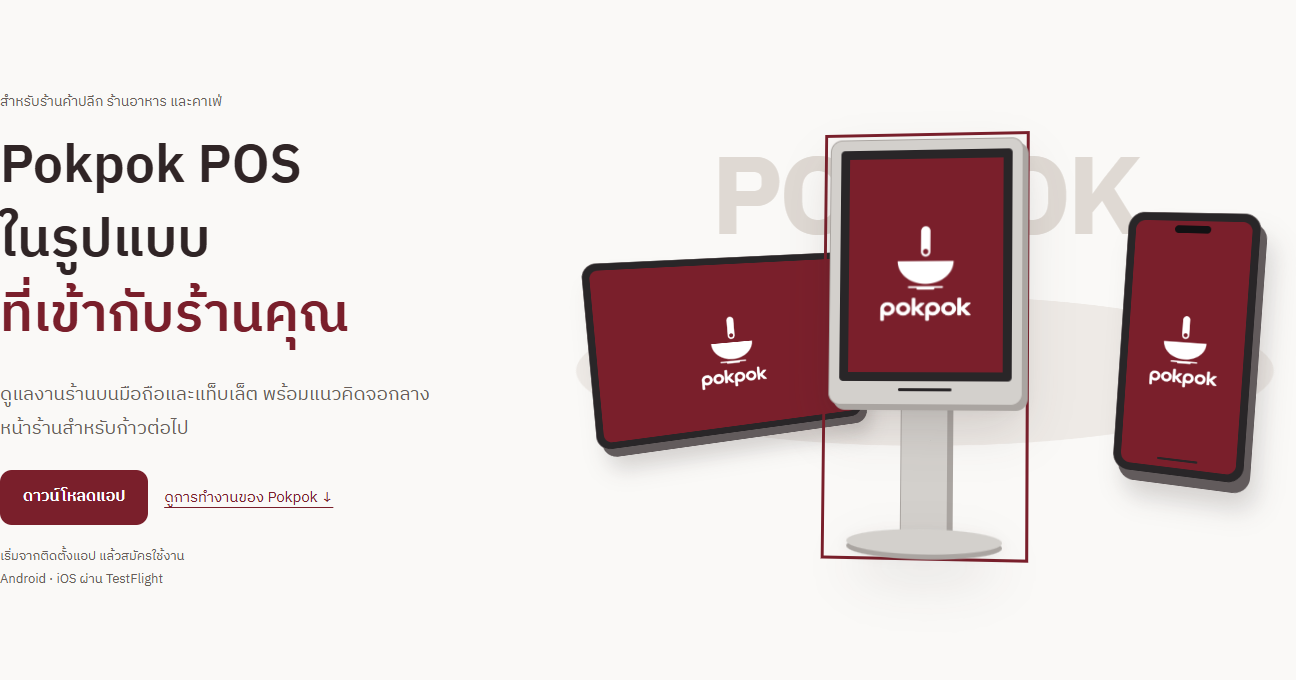
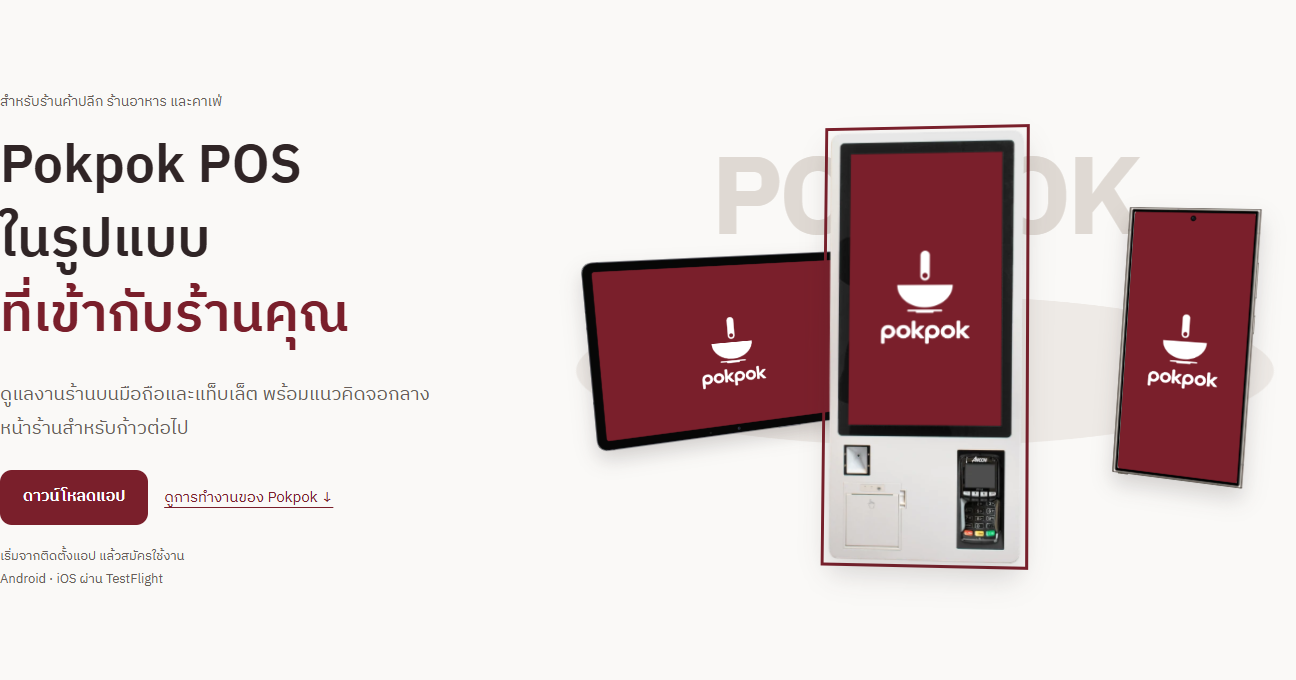
Use licensed realistic device images in homepage showcase

Changed region(s): [[0.4321, 0.1853, 0.8025, 0.8647], [0.8333, 0.2779, 0.9877, 0.7412], [0.5556, 0.525, 0.5864, 0.5868]]

diff --git a/public/index.html b/public/index.html
@@ -52,9 +52,9 @@
   <link rel="stylesheet" href="/brand/wordmark.css?v=20261118-motion">
 <link rel="stylesheet" href="/site-pages.css?v=20261112-direction"><script src="/js/site.js?v=20261113-pricing" defer></script><noscript><style>.mobile-nav{display:block;position:static;max-height:none}.hamburger{display:none}.guide-tools{display:none}</style></noscript><link rel="stylesheet" href="/pricing.css?v=20261113">
 <link rel="stylesheet" href="/marketing-background.css?v=20261113">
-<link rel="stylesheet" href="/home-tokens.css?v=20261122-swipe">
-<link rel="stylesheet" href="/home-story.css?v=20261122-swipe">
-<script src="/js/home-story.js?v=20261122-swipe" defer></script>
+<link rel="stylesheet" href="/home-tokens.css?v=20261122-devices">
+<link rel="stylesheet" href="/home-story.css?v=20261122-devices">
+<script src="/js/home-story.js?v=20261122-devices" defer></script>
 </head>
 <body class="motion-home">
 <a class="skip-link" href="#main">ข้ามไปเนื้อหา</a>
@@ -92,14 +92,13 @@
     <div class="device-stage hero-device" role="group" aria-label="รูปแบบอุปกรณ์ แสดงโลโก้ตอนเปิดแอป Pokpok แตะอุปกรณ์หรือปัดซ้ายขวาเพื่อสลับ ใช้ปุ่มลูกศรบนคีย์บอร์ดได้">
       <span class="device-stage-word" aria-hidden="true">POKPOK</span>
       <button type="button" class="device-model device-phone" data-model="phone" data-position="left" aria-label="มือถือ" aria-pressed="false" disabled>
-        <span class="device-shell"><span class="device-glass launch-screen"><span class="launch-logo" aria-hidden="true"><span class="launch-mark"><img src="/brand/launch/white-pestle.png" alt="" width="1024" height="1024" draggable="false"><img src="/brand/launch/white-bowl.png" alt="" width="1024" height="1024" draggable="false"></span><img class="launch-wordmark" src="/brand/launch/wordmark.png" alt="" width="1011" height="274" draggable="false"></span></span></span>
+        <span class="device-shell"><span class="device-glass launch-screen"><span class="launch-logo" aria-hidden="true"><span class="launch-mark"><img src="/brand/launch/white-pestle.png" alt="" width="1024" height="1024" draggable="false"><img src="/brand/launch/white-bowl.png" alt="" width="1024" height="1024" draggable="false"></span><img class="launch-wordmark" src="/brand/launch/wordmark.png" alt="" width="1011" height="274" draggable="false"></span></span><img class="device-hardware" src="/brand/devices/galaxy-s24-ultra.webp" alt="" width="391" height="800" draggable="false"></span>
       </button>
       <button type="button" class="device-model device-tablet" data-model="tablet" data-position="center" aria-label="แท็บเล็ต" aria-pressed="true" disabled>
-        <span class="device-shell"><span class="device-glass launch-screen"><span class="launch-logo" aria-hidden="true"><span class="launch-mark"><img src="/brand/launch/white-pestle.png" alt="" width="1024" height="1024" draggable="false"><img src="/brand/launch/white-bowl.png" alt="" width="1024" height="1024" draggable="false"></span><img class="launch-wordmark" src="/brand/launch/wordmark.png" alt="" width="1011" height="274" draggable="false"></span></span></span>
+        <span class="device-shell"><span class="device-glass launch-screen"><span class="launch-logo" aria-hidden="true"><span class="launch-mark"><img src="/brand/launch/white-pestle.png" alt="" width="1024" height="1024" draggable="false"><img src="/brand/launch/white-bowl.png" alt="" width="1024" height="1024" draggable="false"></span><img class="launch-wordmark" src="/brand/launch/wordmark.png" alt="" width="1011" height="274" draggable="false"></span></span><img class="device-hardware" src="/brand/devices/galaxy-tab-s7.webp" alt="" width="522" height="800" draggable="false"></span>
       </button>
       <button type="button" class="device-model device-kiosk" data-model="kiosk" data-position="right" aria-label="จอกลางหน้าร้าน แนวคิดที่ยังไม่เปิดให้ใช้งาน" aria-pressed="false" disabled>
-        <span class="kiosk-pedestal" aria-hidden="true"></span><span class="kiosk-foot" aria-hidden="true"></span>
-        <span class="device-shell"><span class="device-glass launch-screen"><span class="launch-logo" aria-hidden="true"><span class="launch-mark"><img src="/brand/launch/white-pestle.png" alt="" width="1024" height="1024" draggable="false"><img src="/brand/launch/white-bowl.png" alt="" width="1024" height="1024" draggable="false"></span><img class="launch-wordmark" src="/brand/launch/wordmark.png" alt="" width="1011" height="274" draggable="false"></span></span><span class="kiosk-slot" aria-hidden="true"></span></span>
+        <span class="device-shell"><span class="device-glass launch-screen"><span class="launch-logo" aria-hidden="true"><span class="launch-mark"><img src="/brand/launch/white-pestle.png" alt="" width="1024" height="1024" draggable="false"><img src="/brand/launch/white-bowl.png" alt="" width="1024" height="1024" draggable="false"></span><img class="launch-wordmark" src="/brand/launch/wordmark.png" alt="" width="1011" height="274" draggable="false"></span></span><img class="device-hardware" src="/brand/devices/self-service-kiosk.webp" alt="" width="365" height="800" draggable="false"></span>
       </button>
     </div>
     <span class="device-sr-status" aria-live="polite" aria-atomic="true">แท็บเล็ต</span>

diff --git a/public/home-story.css b/public/home-story.css
@@ -41,23 +41,21 @@
 .device-stage.is-dragging .device-model { cursor: grabbing; transition: none; }
 .device-model[data-position="left"] { left: 14%; transform: translate(-50%,-50%) scale(.76) rotateY(var(--device-side-angle)) rotateZ(-5deg); z-index: 1; }
 .device-model[data-position="right"] { left: 85%; transform: translate(-50%,-50%) scale(.76) rotateY(calc(var(--device-side-angle) * -1)) rotateZ(4deg); z-index: 1; }
-.device-shell { display: block; position: relative; padding: var(--device-bezel); background: var(--home-device); border: var(--home-border) solid var(--home-device-edge); border-radius: var(--device-radius); box-shadow: var(--device-shadow); }
-.device-glass { display: block; position: relative; overflow: hidden; background: var(--home-ground); border-radius: calc(var(--device-radius) - var(--device-bezel)); }
-.device-glass > img { display: block; width: 100%; height: auto; }
+.device-shell { display: block; position: relative; filter: drop-shadow(var(--device-photo-shadow)); }
+.device-glass { display: block; position: absolute; overflow: hidden; }
+.device-hardware { display: block; position: relative; width: 100%; height: auto; }
 .device-phone { width: 28%; max-width: var(--device-phone-width); }
-.device-phone .device-glass { aspect-ratio: 9 / 19; }
-.device-phone .device-shell::before { content: ''; position: absolute; z-index: 1; width: 28%; height: var(--device-bezel); top: calc(var(--device-bezel) * 1.7); left: 36%; border-radius: var(--home-radius-sm); background: var(--home-camera); }
-.device-phone .device-glass::after { content: ''; position: absolute; width: 35%; height: var(--home-focus); bottom: var(--device-bezel); border-radius: var(--home-radius-sm); background: var(--home-device); }
+.device-phone .device-shell { aspect-ratio: 391 / 800; }
+.device-phone .device-glass { inset: var(--phone-screen-inset); border-radius: var(--phone-screen-radius); }
 .device-tablet { width: 67%; max-width: var(--device-tablet-width); }
 .device-tablet[data-position="left"] { left: 24%; transform: translate(-50%,-50%) scale(.62) rotateY(var(--device-side-angle)) rotateZ(-5deg); }
 .device-tablet[data-position="right"] { left: 76%; transform: translate(-50%,-50%) scale(.62) rotateY(calc(var(--device-side-angle) * -1)) rotateZ(4deg); }
-.device-tablet .device-glass { aspect-ratio: 1480 / 924; }
-.device-kiosk { width: 31%; max-width: var(--device-kiosk-width); aspect-ratio: 1 / 2.12; }
-.device-kiosk .device-shell { position: absolute; inset: 0 0 auto; border-radius: var(--home-radius-screen); padding-bottom: 12%; background: var(--device-metal); border-color: var(--device-metal-edge); box-shadow: var(--device-edge-depth) var(--device-edge-depth) 0 var(--device-metal-edge), var(--home-shadow); }
-.device-kiosk .device-glass { aspect-ratio: 3 / 4; border-radius: var(--home-camera-inset); border: var(--device-bezel) solid var(--home-device); }
-.kiosk-pedestal { position: absolute; top: 60%; bottom: 3%; width: 24%; left: 38%; background: var(--device-metal); border-inline: var(--home-border) solid var(--device-metal-edge); box-shadow: var(--device-edge-depth) 0 var(--device-metal-edge); }
-.kiosk-foot { position: absolute; bottom: 0; left: 10%; width: 80%; height: 6%; border-radius: 50%; background: var(--device-metal); box-shadow: 0 var(--device-edge-depth) 0 var(--device-metal-edge), var(--home-shadow); }
-.kiosk-slot { position: absolute; bottom: 5%; left: 36%; width: 28%; height: var(--home-focus); background: var(--home-device); border-radius: var(--home-radius-sm); }
+.device-tablet .device-shell { aspect-ratio: 800 / 522; }
+.device-tablet .device-hardware { position: absolute; width: 65.25%; height: auto; left: 50%; top: 50%; transform: translate(-50%,-50%) rotate(90deg); }
+.device-tablet .device-glass { inset: var(--tablet-screen-inset); border-radius: var(--tablet-screen-radius); }
+.device-kiosk { width: 31%; max-width: var(--device-kiosk-width); }
+.device-kiosk .device-shell { aspect-ratio: 365 / 800; }
+.device-kiosk .device-glass { inset: var(--kiosk-screen-inset); }
 .launch-screen { display: grid; place-items: center; background: var(--wine); }
 .launch-logo { display: flex; flex-direction: column; align-items: center; width: 68%; max-width: var(--launch-logo-width); }
 .device-tablet .launch-logo { width: 30%; }

diff --git a/public/home-tokens.css b/public/home-tokens.css
@@ -57,12 +57,14 @@
   --device-stage-height: clamp(280px, 36vw, 460px);
   --device-stage-mobile-height: clamp(250px, 72vw, 460px);
   --device-type-backdrop: clamp(40px, 8vw, 110px);
-  --device-bezel: clamp(5px, 1.3cqw, 10px);
-  --device-edge-depth: 5px;
-  --device-radius: clamp(14px, 3cqw, 24px);
-  --device-shadow: 8px 12px 0 #625b5c, 16px 32px 32px #30252630;
-  --device-metal: #d3d0cc;
-  --device-metal-edge: #aaa5a1;
+  --device-photo-shadow: 0 14px 14px #30252630;
+  /* Screen bounds in the licensed standard-size device images. Small overlap
+     beneath each opaque frame prevents seams; original pixels stay unedited. */
+  --phone-screen-inset: 1.75% 4.6% 2% 4.35%;
+  --phone-screen-radius: 1%;
+  --tablet-screen-inset: 4.9% 3.2% 4.9% 3.2%;
+  --tablet-screen-radius: 1.3%;
+  --kiosk-screen-inset: 4.9% 10.7% 31.4% 10.4%;
   --device-backdrop-ink: #dfd9d3;
   --device-transition: 850ms;
   --device-side-angle: 28deg;

diff --git a/docs/website-home-motion.md b/docs/website-home-motion.md
@@ -16,6 +16,13 @@ The existing hero text still identifies the front-of-store display as a future
 concept; its accessible name also says it is unavailable. Self-ordering has not
 been built. Actual app feature screenshots remain in the story below the hero.
 
+The owner then requested real-device imagery. The hero now uses licensed,
+realistic image frames for Galaxy S24 Ultra, Galaxy Tab S7 (landscape) and a
+self-service kiosk in place of the CSS-drawn hardware. Source files, usage terms,
+dimensions and hashes are recorded in [device image sources](website-device-image-sources.md).
+The app launch screens are still ordinary HTML/CSS behind the frame apertures;
+source image pixels are unchanged. No added device descriptions or selector row.
+
 ## Jobs and direction
 
 | Visitor's job | Surface | Question answered | Primary action |
@@ -25,8 +32,8 @@ been built. Actual app feature screenshots remain in the story below the hero.
 | See how the app handles a day's work | Three-scene product story | What happens during sales, order/stock management and daily overview? | Move through examples or open a full image |
 | Find the relevant business functions | Business picker and existing segment links | What fits a restaurant versus a retail shop? | Open the relevant segment page |
 
-Device silhouettes are the hero's main visual, following the owner's correction.
-The device illustrations themselves are native buttons; no separate selector is
+Device imagery is the hero's main visual, following the owner's correction.
+The device images themselves are native buttons; no separate selector is
 shown. Tap/click chooses a device, horizontal touch or mouse drag advances one
 position and wraps, and Left/Right arrows also move selection and focus. A short
 drag snaps back; pointer cancellation does not select. Vertical gestures retain
@@ -88,7 +95,7 @@ screen is used. Screenshot refresh to a later released build is a separate task.
 
 ## Verification and preview
 
-Latest automated evidence: 2026-11-22 launch-logo and swipe revision. The following browser
+Latest automated evidence: 2026-11-22 realistic hardware-image revision. The following browser
 suites are manual local checks, not a deployed-site or native-device test.
 
 Browser checks use the local static files, bundled Thai fonts and an isolated
@@ -103,7 +110,8 @@ node scripts/preview_marketing.cjs --port 4178
 ```
 
 The homepage suite covers eight widths (320, 360, 390, 768, 1024, 1280, 1440,
-1920), the official logos without on-screen prose, direct device click/Enter/arrow
+1920), the three loaded image frames at their original proportions, the official
+logos without on-screen prose, direct device click/Enter/arrow
 keys and mouse dragging, the selected model's actual transform, overflow for each
 selected device, business selection, scroll/direct anchors, reduced motion,
 short windows, failed story images, and a no-JavaScript fallback. A dedicated
@@ -112,11 +120,11 @@ wrap-around, direct tap, short-drag snapback, cancellation, vertical page scroll
 without a selection change, and reduced-motion swiping. These are browser touch
 events, not an Android/iOS hardware test.
 
-Final focused touch/launch run, including kiosk alignment: **13 groups passed,
-exit 0**. Shared marketing regression: **18 pages at five widths passed, exit 0**.
-Script syntax and `git diff --check` passed.
-Captures are in `D:/PokpokWork/home-swipe-20261122/`. Initial findings were
-reproduced and fixed before the passing run:
+Final focused hardware/touch run: **13 groups passed, exit 0**. Shared marketing
+regression for this revision: **18 pages at five widths passed, exit 0**. Script syntax and
+`git diff --check` passed. Current captures are in
+`D:/PokpokWork/home-hardware-20261122/`. Earlier launch/swipe findings were
+reproduced and fixed before that revision's passing run:
 
 - At 1280 px the initial transform transition could briefly put devices outside
   the viewport. Transitions now start with interaction, avoiding an entrance
@@ -130,13 +138,16 @@ reproduced and fixed before the passing run:
   at the top; the regression checks its rendered top against the button bounds.
   A second visual pass confirmed that the gap is gone at 390 and 1280 px.
 
-A fresh screenshot walkthrough reviewed five desktop/phone/tablet captures and
+A fresh screenshot walkthrough of the preceding launch/swipe build reviewed five desktop/phone/tablet captures and
 found no high/medium comprehension issue. It noticed the kiosk focus gap (fixed)
 and two minor tradeoffs: without visible controls swiping is less discoverable,
 and the foreground tablet partly covers the phone on narrow screens. The owner
 explicitly requested direct manipulation without labelled controls; no helper
 copy was added. Review was not fully blind because mandatory project docs were
-read first. Actual feature UI remains available in the lower story, with full-image
+read first. The subsequent hardware-image review checked five captures and found
+no material issue: devices retain their proportions, image bounds and logo
+alignment. Minor side-device occlusion remains on narrow screens. Actual feature
+UI remains available in the lower story, with full-image
 links. Captures wait for device transitions and the existing masthead animation.
 
 Manual design audit, rechecked for the device revision: accessibility **4/4**, payload and

diff --git a/docs/HANDOFF.md b/docs/HANDOFF.md
@@ -15,17 +15,23 @@ Rules:
 
 ## Current state (updated 2026-11-22)
 
-Latest owner revision is complete locally: all three device screens now
-use the app's Burgundy launch background and official white mortar/wordmark.
+Latest revision is complete locally: replaced the CSS-drawn device shells with
+licensed realistic Mobile FIRST frames (Galaxy S24 Ultra, Galaxy Tab S7, and a
+self-service kiosk). All retain Pokpok launch logos and direct swipe/tap behavior.
+The free standard exports total 29,186 bytes; sources and usage restrictions are
+in `docs/website-device-image-sources.md`. No purchase or website publication.
+
+All three device screens use the app's Burgundy launch background and official
+white mortar/wordmark.
 The separate device selector and on-device/under-device copy were removed.
 Devices themselves are interactive: tap/click, horizontal touch/mouse drag, or
 keyboard arrows. Vertical page scrolling is verified through native browser touch
 events; pinch zoom is allowed by touch-action (not tested on physical hardware).
 The focused suite passed 13 groups at eight widths including touch cancellation,
 short swipes, wrap-around, reduced-motion and no-JS. Shared marketing regression
-passed 18 pages at five widths. A fresh visual walkthrough found a kiosk shell
-alignment gap, which was reproduced, fixed and rechecked successfully. The review
-was not fully blind because mandatory project docs were read before screenshots.
+passed 18 pages at five widths, rerun after the hardware image replacement. A fresh
+visual walkthrough of five views found no stretched/cropped devices or misplaced
+logos. It was not fully blind because mandatory project docs were read first.
 Native app logo copies are byte-identical to their sources. Kiosk self-ordering
 remains an unimplemented concept, disclosed in the hero copy and accessible name.
 The lower three-chapter app story and real screenshots remain. Updated desktop,
@@ -640,6 +646,36 @@ or triggered; its Codemagic workflow does not run automatically on push.
 ---
 
 ## Log
+
+### 2026-11-22 — Realistic hardware images verified for local preview
+
+- Integrated three licensed WebP device frames without changing their pixels.
+  Pokpok launch branding remains on all three screens; direct gestures and the
+  absence of separate labelled controls remain as requested.
+- Focused suite passed 13 groups / eight widths, exit 0, now also checking all
+  three hardware images load and retain original aspect ratios. Native browser
+  touch, mouse/keyboard, reduced motion and no-JS paths passed. Shared marketing
+  regression passed 18 pages at five widths, exit 0. Syntax/diff checks passed.
+- Fresh visual walkthrough of five desktop/mobile/tablet views found no material
+  layout, stretching or logo-alignment issue. The layered devices partly obscure
+  side devices at narrow widths, a minor known tradeoff. Focus ring is intentional.
+  Review read mandatory docs before images and therefore was not fully blind.
+- Updated saved previews. Local HTTP readback returns 200 with all three hardware
+  image elements and the 20261122-devices revision. No purchase, public deploy,
+  device compatibility claim or real hardware test. License/source notes saved in
+  `docs/website-device-image-sources.md`.
+
+### 2026-11-22 — Sourced realistic device frames and integrated local preview
+
+- Owner requested actual-device images instead of the drawn shapes. Found a
+  matching front-view transparent set: Galaxy S24 Ultra, Galaxy Tab S7 and a
+  self-service kiosk. These are supplier mockup frames, not Pokpok photographs.
+- Checked Mobile FIRST source pages and mockup license section 9. Used only free
+  standard downloads; documented URLs, terms, byte sizes and hashes. Kept image
+  pixels unchanged, composed existing launch logos behind each screen with CSS,
+  and turned the tablet frame to landscape. Removed the drawn kiosk stand.
+- Preserved tap/swipe/keyboard behavior and kiosk concept disclosure. Focused
+  browser and visual verification is in progress. No purchase or public release.
 
 ### 2026-11-22 — Launch-logo swipe preview verified
 

diff --git a/docs/website-device-image-sources.md b/docs/website-device-image-sources.md
@@ -1,0 +1,47 @@
+# Homepage device images
+
+Selected 2026-11-22 following the owner's request for images of real devices in
+place of the CSS illustrations. These are the supplier's realistic device mockup
+frames, not photographs taken by Pokpok or evidence of a tested hardware setup.
+
+| Website asset | Source page | Standard export | Size |
+| --- | --- | --- | --- |
+| `public/brand/devices/galaxy-s24-ultra.webp` | [Samsung Galaxy S24 Ultra](https://www.webmobilefirst.com/en/mockups/samsung-galaxy-s24-ultra-2024/) | 391 × 800, transparent WebP | 3,788 bytes |
+| `public/brand/devices/galaxy-tab-s7.webp` | [Samsung Galaxy Tab S7](https://www.webmobilefirst.com/en/mockups/samsung-galaxy-tab-s7/) | 522 × 800, transparent WebP | 5,200 bytes |
+| `public/brand/devices/self-service-kiosk.webp` | [Self-service kiosk](https://www.webmobilefirst.com/en/mockups/self-service-kiosk/) | 365 × 800, transparent WebP | 20,198 bytes |
+
+Publisher: Mobile FIRST / François Duprat. The ordinary free download links were
+used; no paid HD version or extension was acquired. Total image payload: 29,186
+bytes. No hotlink is used by the Pokpok page.
+
+## Project-use terms
+
+Read [the supplier's mockup license, section 9](https://www.webmobilefirst.com/en/license-agreement/)
+(page dated 2026-11-11, checked 2026-11-22). It allows inserting our design and
+using the result on a commercial website without attribution. It permits client
+project handover. These assets remain proprietary: do not offer the frame files
+as downloads, resell them, distribute a mockup pack, put them into a simulator or
+generator, or imply manufacturer endorsement. This project uses them only to
+present Pokpok branding in the homepage device showcase. The source-code license
+does not relicense these third-party images.
+
+## Integration and provenance
+
+- Downloaded WebP pixels remain unchanged. The app launch artwork sits behind
+  the transparent screen aperture in HTML/CSS. No generative repainting or screen
+  image editing was used.
+- The tablet frame is rotated 90 degrees in CSS for landscape presentation; the
+  Pokpok logo remains upright. Each outer device retains the image's aspect ratio.
+- The real kiosk chassis replaces the drawn pedestal and fake slot. Its visible
+  card reader is part of the supplier image, not a claim of Pokpok payment-device
+  integration. Kiosk self-ordering remains a future concept in the hero copy.
+- Existing tap, swipe, mouse drag, keyboard and reduced-motion behavior remains.
+  No separate selector or explanatory text is added to the device screens.
+
+SHA-256 of downloaded files:
+
+```text
+galaxy-s24-ultra.webp   6fc2e32d91dadd3c98bdb83f31d47f02ac410c88a8a710b7f2e9a351ec0d4e1b
+galaxy-tab-s7.webp      f58905ec83458f6c94bcf30f5c71fe07412064b02b02670bb25e64c7c32d22b2
+self-service-kiosk.webp 91652a2ff72c29b823a59801b8b41f62c61046db040f06a453e6c9949e8c9fb3
+```
